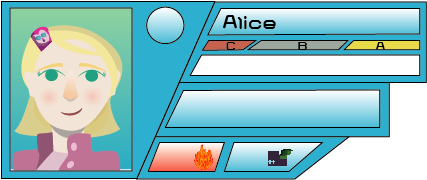
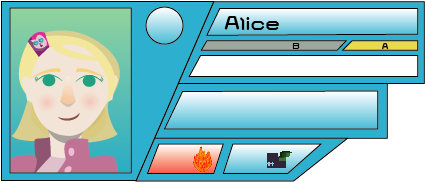
Layers intermedios y puntuación

diff --git a/Classes/PreAlice.cpp b/Classes/PreAlice.cpp
@@ -1,16 +1,17 @@
-#include "GameOver.h"
+#include "PreAlice.h"
 #include "Tutorial.h"
 #include "Alice.h"
+#include "AnimacionScene.h"
 
 USING_NS_CC;
 
-Scene* GameOver::createScene()
+Scene* PreAlice::createScene()
 {
 	// 'scene' is an autorelease object
 	auto scene = Scene::create();
 
-	// 'layer' isg an autorelease object
-	auto layer = GameOver::create();
+	// 'layer' is an autorelease object
+	auto layer = PreAlice::create();
 
 	// add layer as a child to scene
 	scene->addChild(layer);
@@ -20,7 +21,7 @@ Scene* GameOver::createScene()
 }
 
 // on "init" you need to initialize your instance
-bool GameOver::init()
+bool PreAlice::init()
 {
 	//////////////////////////////GameScreen
 	// 1. super init first
@@ -30,7 +31,6 @@ bool GameOver::init()
 	}
 
 	Size visibleSize = Director::getInstance()->getVisibleSize();
-	Vec2 origin = Director::getInstance()->getVisibleOrigin();
 
 	//Cursor
 	_cursorSprite = Sprite::create("cursor1.png");
@@ -40,36 +40,30 @@ bool GameOver::init()
 	_cursorSprite2 = Sprite::create("cursor2.png");
 	addChild(_cursorSprite2, 6);
 
-	CocosDenshion::SimpleAudioEngine::getInstance()->playEffect("/music/monitor.mp3");
+	ficha = Sprite::create("FichaAlice.png");
+	ficha->setPosition(visibleSize.width / 2, visibleSize.height / 2);
+	addChild(ficha, 2);
 
-	auto resumeItem = MenuItemImage::create("reanudar.png", "reanudar.png",
-		CC_CALLBACK_1(GameOver::resumeGameScreen,
-			this));
+	auto pasarNivel = MenuItemImage::create("BotonFicha.png", "BotonFicha2.png",
+		CC_CALLBACK_1(PreAlice::empezarNivel, this));
+	pasarNivel->setPosition(0, -230);
 
-	auto closeItem = MenuItemImage::create("medicine1.png", "medicine1.png",
-		CC_CALLBACK_1(GameOver::menuCloseCallback, this));
+	auto menu = Menu::create(pasarNivel, NULL);
+	addChild(menu, 3);
 
-	closeItem->setPosition(Vec2(origin.x + visibleSize.width - closeItem->getContentSize().width / 2,
-		origin.y + closeItem->getContentSize().height / 2));
-
-	auto menu = Menu::create(resumeItem, closeItem, NULL);
-
-	menu->alignItemsVerticallyWithPadding(visibleSize.height / 4);
-	addChild(menu, 1);
-
-	auto background = Sprite::create("dead.png");
+	auto background = Sprite::create("GraciasJugar.png");
 	background->setPosition(Point((visibleSize.width / 2),
 		(visibleSize.height / 2)));
 	addChild(background, 0);
 
 	auto mouseListener = EventListenerMouse::create();
-	mouseListener->onMouseMove = CC_CALLBACK_1(GameOver::onMouseMove, this);
+	mouseListener->onMouseMove = CC_CALLBACK_1(PreAlice::onMouseMove, this);
 	this->getEventDispatcher()->addEventListenerWithSceneGraphPriority(mouseListener, this);
 
 	return true;
 }
 
-void GameOver::onMouseMove(Event *event)
+void PreAlice::onMouseMove(Event *event)
 {
 	auto *e = dynamic_cast<EventMouse *>(event);
 	_cursorSprite2->setPosition(e->getCursorX() + 16, e->getCursorY() - 16);
@@ -85,15 +79,13 @@ void GameOver::onMouseMove(Event *event)
 	huella->runAction(action);
 }
 
-void GameOver::resumeGameScreen(Ref *pSender) {
-	auto scene = Alice::createScene();
+void PreAlice::empezarNivel(Ref *pSender) {
 	Director::getInstance()->popScene();
-	Director::getInstance()->replaceScene(scene);
-}
-
-void GameOver::menuCloseCallback(Ref* pSender)
-{
-	Director::getInstance()->end();
+	auto scene = Alice::createScene();
+	Director::getInstance()->pushScene(scene);
+	auto scene2 = AnimacionScene::createScene();
+	Director::getInstance()->pushScene(scene2);
+	
 }
 
 #if (CC_TARGET_PLATFORM == CC_PLATFORM_IOS)

diff --git a/Classes/Alice.cpp b/Classes/Alice.cpp
@@ -71,12 +71,19 @@ bool Alice::init()
 		origin.y + visibleSize.height - interfazSprite->getContentSize().height / 2);
 	addChild(interfazSprite, 1);
 
-	//Mensaje
+	//Mensaje1
 	victorySprite = Sprite::create("mensaje_scan.png");
 	victorySprite->setPosition(interfazSprite->getPosition().x - 15,
 		interfazSprite->getPosition().y - 140);
 	addChild(victorySprite, 4);
 	victorySprite->setVisible(false);
+
+	//Mensaje2
+	sanoSprite = Sprite::create("mensaje_vida.png");
+	sanoSprite->setPosition(interfazSprite->getPosition().x - 15,
+		interfazSprite->getPosition().y - 225);
+	addChild(sanoSprite, 4);
+	sanoSprite->setVisible(false);
 
 	//Labels
 	NDosis = 1;
@@ -595,10 +602,39 @@ void Alice::update(float dt)
 		}
 	}
 
-	if(todosmuertos && diagnostico)
+	if (todosvisibles && Alarma->isVisible()) { 
+		Alarma->setVisible(false); 
+	}
+	
+	if (estado->contenido.at(0)->isVisible() && bool_aux) {
+		CocosDenshion::SimpleAudioEngine::getInstance()->playEffect("/music/notificacion_estado.mp3");
+		bool_aux = false;
+	}
+	else if (!estado->contenido.at(0)->isVisible()){
+		bool_aux = true;
+	}
+
+	bool hayVivas = false;
+	auto vidaPaciente = 0.0f;
+
+	for (const auto& carpeta : allCarpetas)
+	{
+		vidaPaciente += (float) carpeta->vida;
+		if (carpeta->vida > 0)
+			hayVivas = true;
+	}
+
+	barraVida->setPositionX((float) (302.0f - (vidaTotal - vidaPaciente)*relVida));
+
+	if (todosmuertos && diagnostico)
 	{
 		auto secuencia = Sequence::create(DelayTime::create(10.0f), CallFunc::create(CC_CALLBACK_0(Alice::tiempoFinal, this)), NULL);
 		this->runAction(secuencia);
+
+		if (barraVida->getPosition().x > 225.0f) { //El rango A va de 225 a 302
+			auto secuencia2 = Sequence::create(DelayTime::create(1.0f), CallFunc::create(CC_CALLBACK_0(Alice::sano, this)), NULL);
+			this->runAction(secuencia2);
+		}
 
 		CocosDenshion::SimpleAudioEngine::getInstance()->playEffect("/music/final_nivel.mp3");
 		diag = Sprite::create("FichaAlice2.png");
@@ -636,30 +672,6 @@ void Alice::update(float dt)
 
 		diagnostico = false;
 	}
-
-	if (todosvisibles && Alarma->isVisible()) { 
-		Alarma->setVisible(false); 
-	}
-	
-	if (estado->contenido.at(0)->isVisible() && bool_aux) {
-		CocosDenshion::SimpleAudioEngine::getInstance()->playEffect("/music/notificacion_estado.mp3");
-		bool_aux = false;
-	}
-	else if (!estado->contenido.at(0)->isVisible()){
-		bool_aux = true;
-	}
-
-	bool hayVivas = false;
-	auto vidaPaciente = 0.0f;
-
-	for (const auto& carpeta : allCarpetas)
-	{
-		vidaPaciente += (float) carpeta->vida;
-		if (carpeta->vida > 0)
-			hayVivas = true;
-	}
-
-	barraVida->setPositionX((float) (302.0f - (vidaTotal - vidaPaciente)*relVida));
 
 	if (!hayVivas)
 	{
@@ -720,8 +732,19 @@ void Alice::victoria(void) {
 	victorySprite->runAction(secuencia);
 }
 
+void Alice::sano(void) {
+	sanoSprite->setVisible(true);
+	CocosDenshion::SimpleAudioEngine::getInstance()->playEffect("/music/victory2.mp3");
+	auto secuencia = Sequence::create(DelayTime::create(4.0f), CallFunc::create(CC_CALLBACK_0(Alice::quitaMensaje2, this)), NULL);
+	sanoSprite->runAction(secuencia);
+}
+
 void Alice::quitaMensaje(void) {
 	victorySprite->setVisible(false);
+}
+
+void Alice::quitaMensaje2(void) {
+	sanoSprite->setVisible(false);
 }
 
 void Alice::escaneando(void)

diff --git a/Classes/Tutorial.cpp b/Classes/Tutorial.cpp
@@ -5,7 +5,7 @@
 #include "GameOver.h"
 #include "Alice.h"
 #include "AnimacionScene.h"
-#include "PauseScene.h"
+#include "PreAlice.h"
 
 USING_NS_CC;
 
@@ -161,7 +161,7 @@ bool Tutorial::init()
 	posXarchs3 = 1100;
 	posYarchs3 = 440;
 
-	arch3_1 = Sprite::create("FichaAlice.png");
+	arch3_1 = Sprite::create("PlantillaPacientes.png");
 	arch3_1->setPosition(posXarchs3, posYarchs3);
 	archivos3.insert(0, arch3_1);
 	addChild(arch3_1, 3);
@@ -363,7 +363,7 @@ bool Tutorial::init()
 		barra->getContentSize().height / 2);
 	musica->setVisible(false);
 
-	pasarNivel = MenuItemImage::create("BotonFicha.png", "BotonFicha2.png",
+	pasarNivel = MenuItemImage::create("BotonPacientes.png", "BotonPacientes1.png",
 		CC_CALLBACK_1(Tutorial::terminarNivel, this));
 	pasarNivel->setPosition(posXarchs3, posYarchs3 - 230);
 	pasarNivel->setVisible(false);
@@ -890,8 +890,6 @@ void Tutorial::escaneando(void)
 
 void Tutorial::terminarNivel(Ref *pSender) {
 	PauseScene::TutorialPantalla = 1;
-	auto scene = Alice::createScene();
+	auto scene = PreAlice::createScene();
 	Director::getInstance()->pushScene(scene);
-	auto scene2 = AnimacionScene::createScene();
-	Director::getInstance()->pushScene(scene2);
 }

diff --git a/Classes/PreAlice.h b/Classes/PreAlice.h
@@ -1,0 +1,28 @@
+#ifndef __PRE_ALICE_H__
+#define __PRE_ALICE_H__
+
+#include "cocos2d.h"
+
+USING_NS_CC;
+
+class PreAlice : public cocos2d::Layer
+{
+public:
+	static int TutorialPantalla;
+	static int AlicePantalla;
+	Sprite* _cursorSprite;
+	Sprite* _cursorSprite2;
+	Sprite* ficha;
+	void empezarNivel(Ref *pSender);
+
+	static cocos2d::Scene* createScene();
+
+	void onMouseMove(Event *event);
+
+	virtual bool init();
+
+	// implement the "static create()" method manually
+	CREATE_FUNC(PreAlice);
+};
+
+#endif // __PRE_ALICE_H__

diff --git a/Classes/Alice.h b/Classes/Alice.h
@@ -75,6 +75,7 @@ public:
 	Sprite* interfazSprite;
 	Sprite* barraVida;
 	Sprite* victorySprite;
+	Sprite* sanoSprite;
 
 	Sprite* cargando1;
 	Sprite* animFuego;
@@ -150,6 +151,8 @@ public:
 
 	void victoria(void);
 	void quitaMensaje(void);
+	void sano(void);
+	void quitaMensaje2(void);
 	void escaneando(void);
 	void goToPauseScene(Ref *pSender);
 	void tiempoFinal(void);

diff --git a/Classes/AppDelegate.cpp b/Classes/AppDelegate.cpp
@@ -2,6 +2,7 @@
 #include "Mechanics.h"
 #include "Inicio.h"
 #include "Alice.h"
+#include "PreAlice.h"
 #include "Tutorial.h"
 #include "AnimacionScene.h"
 
